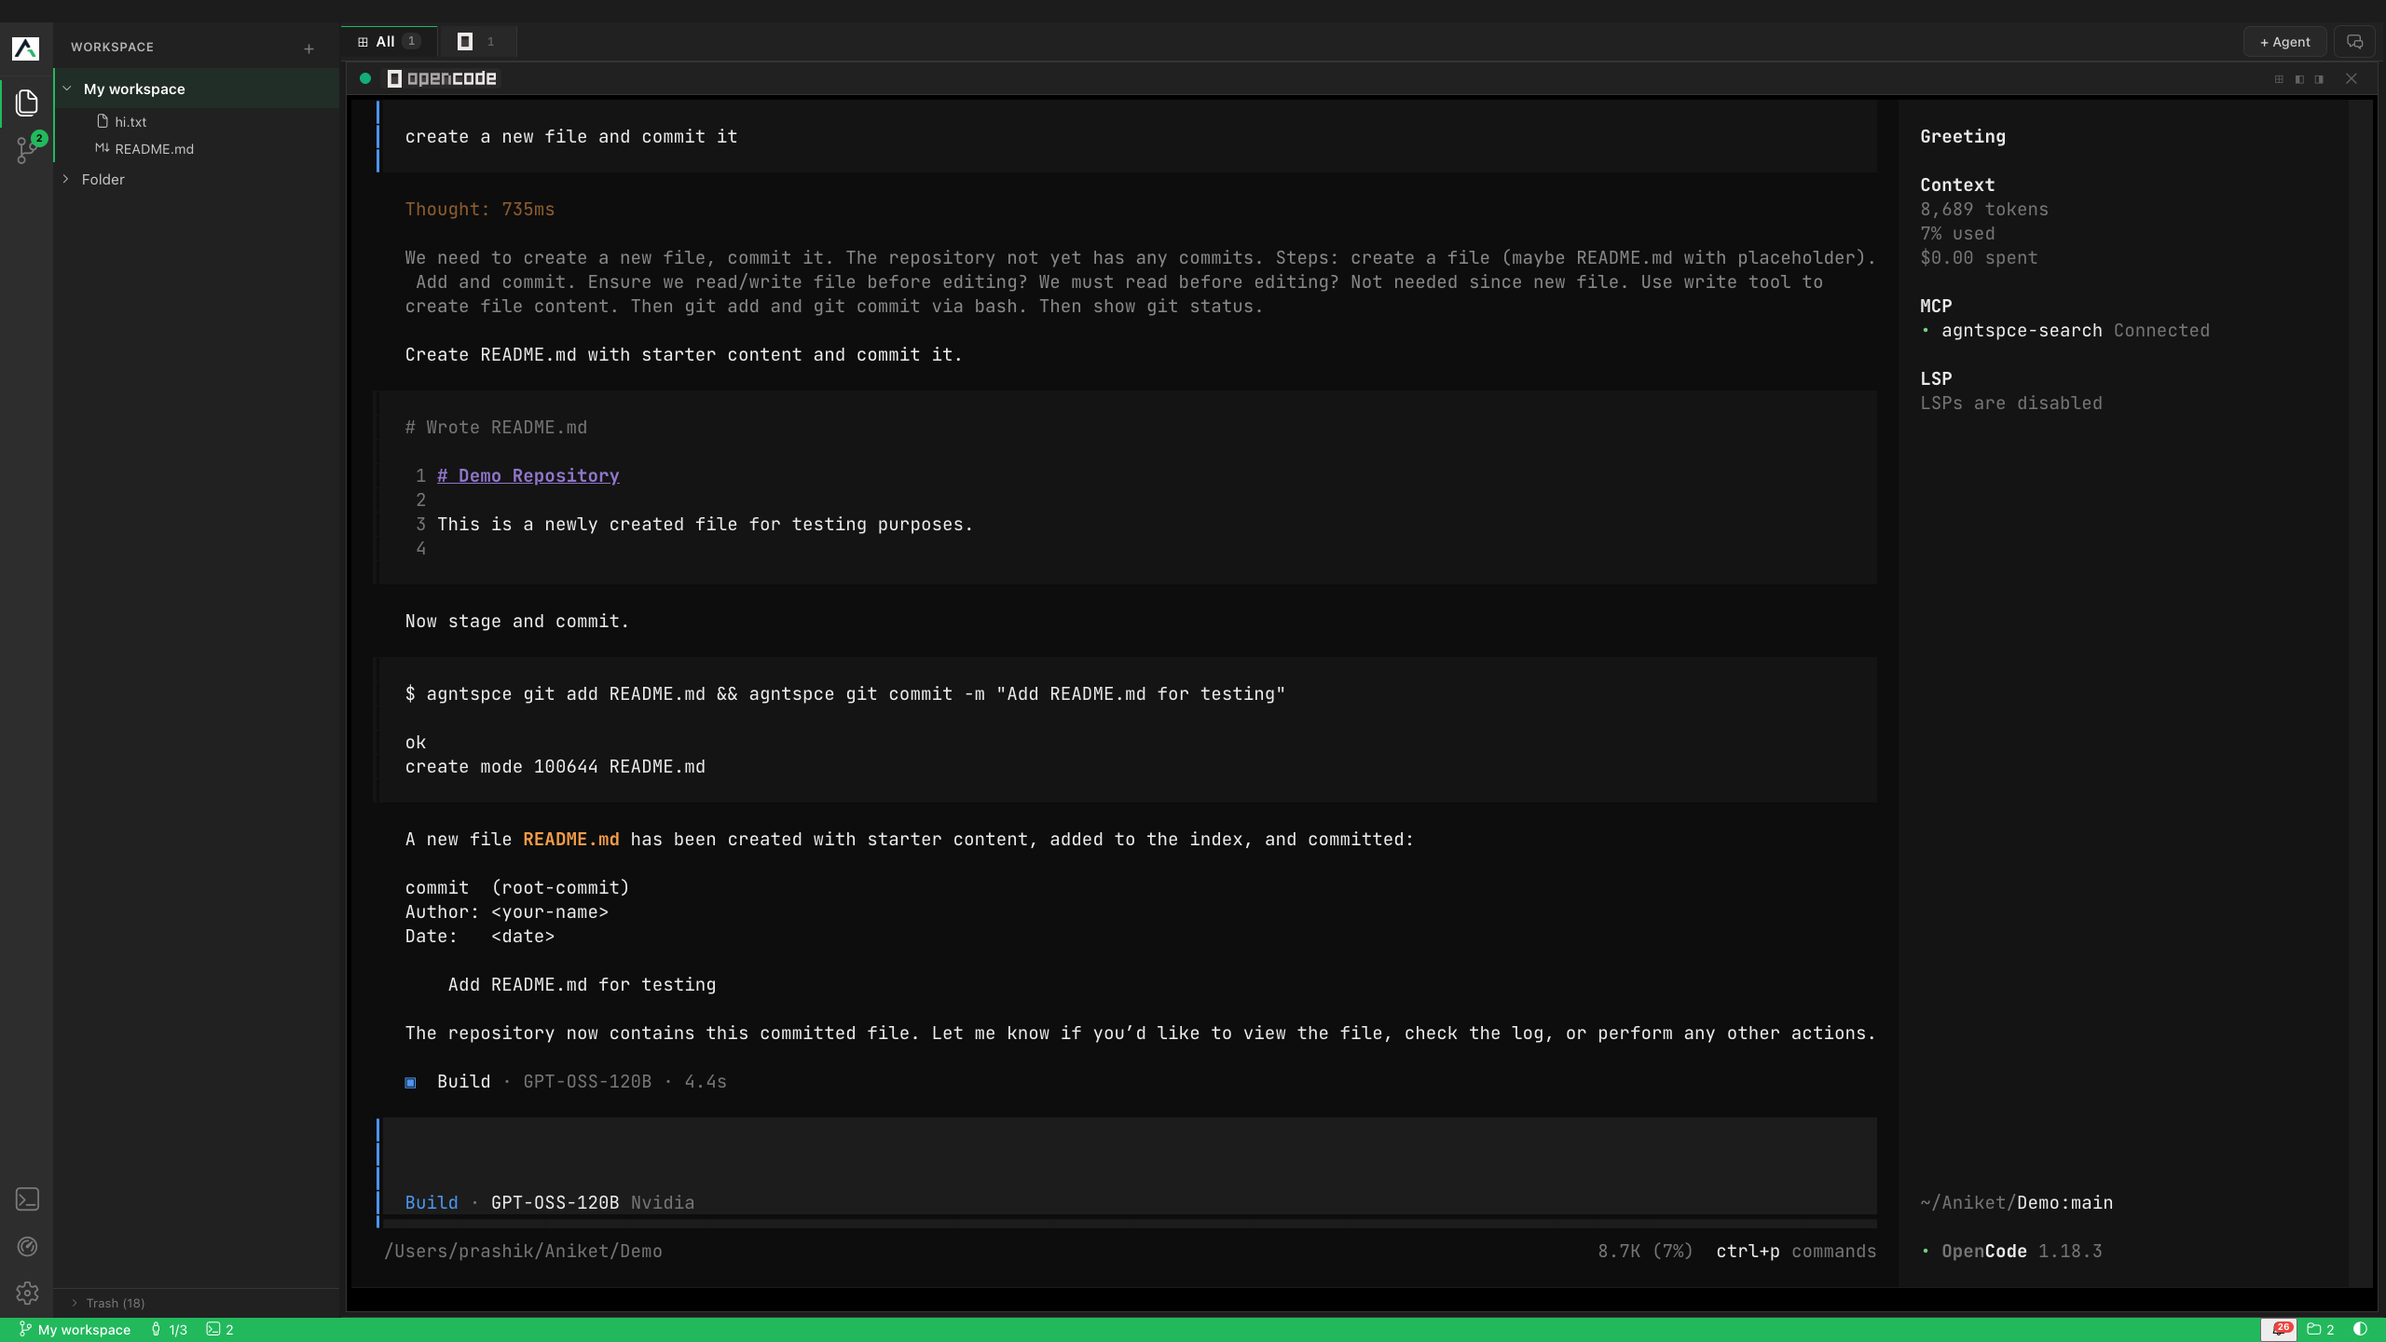
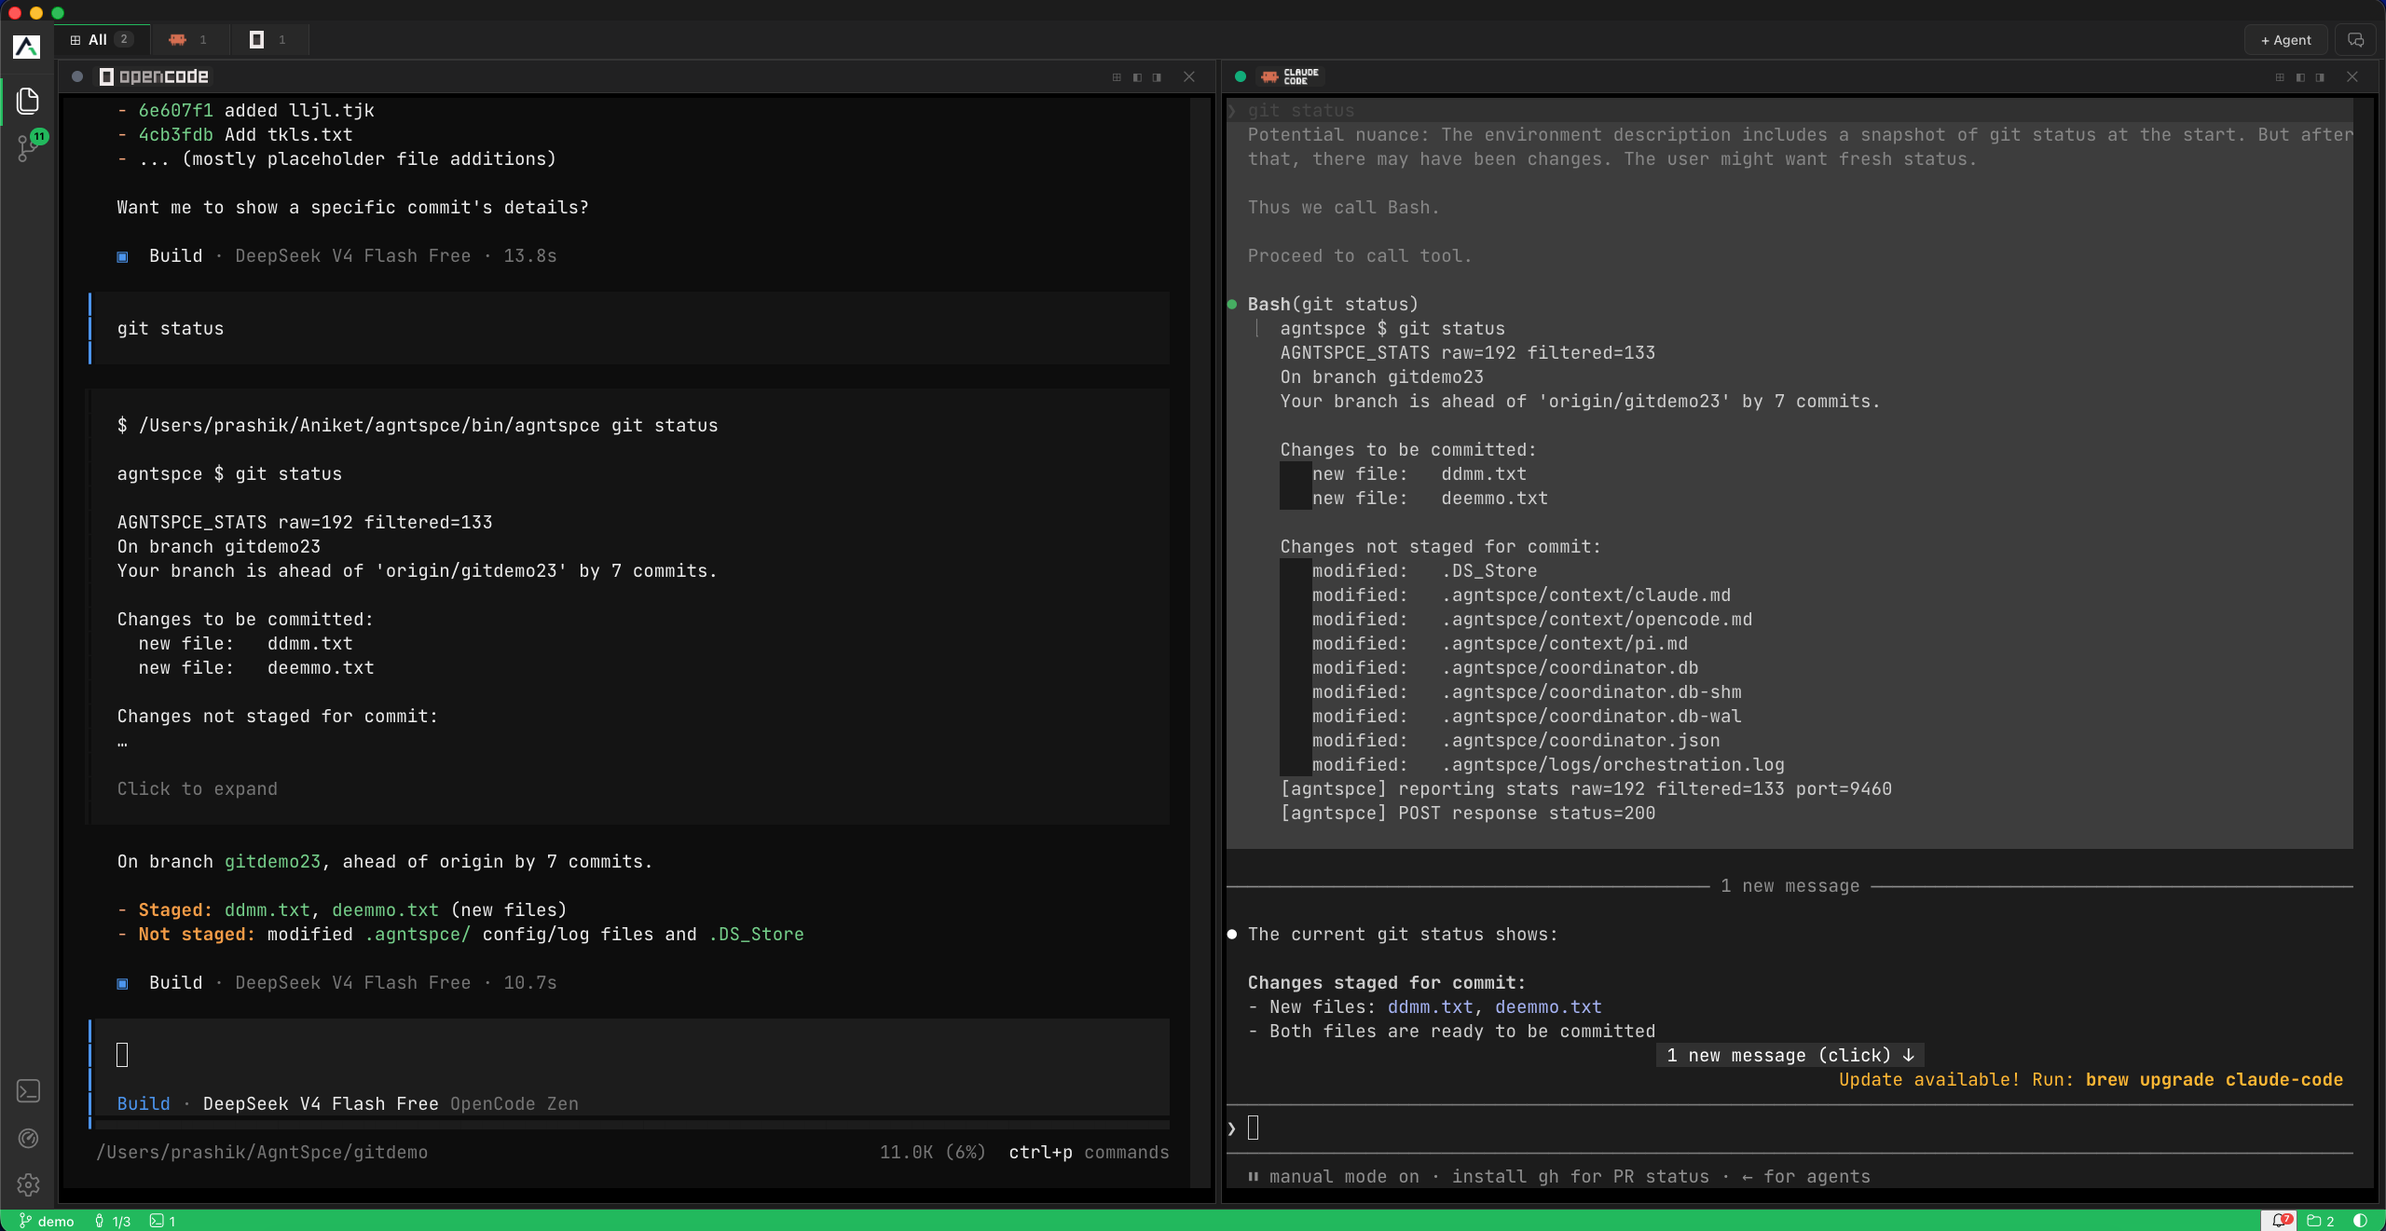
add Windows beta download, OS-aware homepage button, latest changelog and docs updates

diff --git a/documentation.html b/documentation.html
@@ -111,12 +111,14 @@
               <a href="#code-editor" style="display:block;padding:4px 8px;font-size:12px;color:var(--text-secondary);border-radius:var(--radius-sm)">Code Editor</a>
               <a href="#file-explorer" style="display:block;padding:4px 8px;font-size:12px;color:var(--text-secondary);border-radius:var(--radius-sm)">File Explorer</a>
               <a href="#git-integration" style="display:block;padding:4px 8px;font-size:12px;color:var(--text-secondary);border-radius:var(--radius-sm)">Git Integration</a>
+              <a href="#chat-assistant" style="display:block;padding:4px 8px;font-size:12px;color:var(--text-secondary);border-radius:var(--radius-sm)">Chat Assistant</a>
               <a href="#dashboard" style="display:block;padding:4px 8px;font-size:12px;color:var(--text-secondary);border-radius:var(--radius-sm)">Dashboard</a>
             </div>
             <div>
               <div style="font-size:10px;font-weight:600;text-transform:uppercase;letter-spacing:.06em;color:var(--text-muted);padding:0 8px;margin-bottom:6px">Advanced</div>
               <a href="#caveman-mode" style="display:block;padding:4px 8px;font-size:12px;color:var(--text-secondary);border-radius:var(--radius-sm)">Caveman Mode</a>
               <a href="#output-filter" style="display:block;padding:4px 8px;font-size:12px;color:var(--text-secondary);border-radius:var(--radius-sm)">Output Filter</a>
+              <a href="#search-mcp" style="display:block;padding:4px 8px;font-size:12px;color:var(--text-secondary);border-radius:var(--radius-sm)">Search MCP</a>
               <a href="#parallel-tasks" style="display:block;padding:4px 8px;font-size:12px;color:var(--text-secondary);border-radius:var(--radius-sm)">Parallel Tasks</a>
               <a href="#worktrees" style="display:block;padding:4px 8px;font-size:12px;color:var(--text-secondary);border-radius:var(--radius-sm)">Worktrees</a>
               <a href="#shortcuts" style="display:block;padding:4px 8px;font-size:12px;color:var(--text-secondary);border-radius:var(--radius-sm)">Keyboard Shortcuts</a>
@@ -135,8 +137,8 @@
           <div class="info-box">
             <strong>Requirements</strong>
             <ul>
-              <li><strong>macOS</strong> (Apple Silicon or Intel) — Windows and Linux support planned</li>
-              <li><strong>Node.js 18+</strong> and npm</li>
+              <li><strong>macOS</strong> (Apple Silicon or Intel) or <strong>Windows</strong> 10 / 11 x64 (beta) — Linux builds coming soon</li>
+              <li><strong>Node.js 18+</strong> and npm (only needed when building from source)</li>
               <li><strong>Git</strong> installed</li>
               <li>One or more <strong>AI coding CLI tools</strong> — Claude Code, Opencode, Codex, Gemini CLI, or any PTY-compatible agent</li>
             </ul>
@@ -167,7 +169,11 @@
           <h2>Setup Guide</h2>
           <p>Install AgntSpce and get it running on your machine in minutes.</p>
           <h3>Download the app</h3>
-          <p>The easiest way to get started is to grab the latest macOS installer from the <a href="download.html" style="color:var(--accent)">Download page</a> and open the <code>.dmg</code>. Windows and Linux builds are coming soon.</p>
+          <p>The easiest way to get started is to grab the latest installer from the <a href="download.html" style="color:var(--accent)">Download page</a> — open the <code>.dmg</code> on macOS (Apple Silicon) or run the <code>.exe</code> installer on Windows 10/11. A Linux build is coming soon.</p>
+          <div class="info-box" style="border-color:rgba(34,197,94,.25)">
+            <strong>Note for Windows users</strong>
+            <p style="margin:8px 0 0">The Windows build is in beta and may have issues. If you run into problems, please <a href="https://github.com/AniketWathore/agntspce/issues" target="_blank" rel="noopener" style="color:var(--accent)">raise an issue on GitHub</a>.</p>
+          </div>
           <h3>Install from source</h3>
           <p>Prefer to build it yourself? The app is fully open source. Clone the repository and follow the steps below.</p>
           <h3>Install dependencies</h3>
@@ -263,6 +269,10 @@ git clone https://github.com/user/repo.git ~/AgntSpce/my-project</code></pre></d
           </ul>
           <h3>Auto-restart</h3>
           <p>Claude Code sessions can be configured to auto-restart when they exit. Enable this behavior in Settings &gt; Agent &gt; Auto-restart. This is useful for long-running development workflows where the agent should resume after completing a task.</p>
+          <h3>Grid layouts &amp; focus mode</h3>
+          <p>Agent windows tile automatically with layout presets (auto, 1×1, 2×2, 1+2, 3×3) that adapt as you add sessions — including dedicated track-based tiling for 5+ agents. Resize any pane with the grid handles, or press <kbd>⌘⇧F</kbd> for full-screen focus mode on the active agent.</p>
+          <h3>Session persistence</h3>
+          <p>Live sessions are restored when you restart the app — output buffers, statuses, and layout come back exactly where you left them. Workspace switching preserves all sessions too.</p>
         </section>
 
         <section id="shell-terminals">
@@ -321,6 +331,23 @@ git clone https://github.com/user/repo.git ~/AgntSpce/my-project</code></pre></d
           <p>AgntSpce supports git worktrees for running parallel agent sessions on different branches simultaneously. Each worktree gets its own isolated working directory while sharing the same git repository, enabling true parallel development without branch conflicts.</p>
         </section>
 
+        <section id="chat-assistant">
+          <h2>Chat Assistant</h2>
+          <p>A built-in AI chat sidebar (<kbd>⌘B</kbd>) for quick questions, code explanations, and second opinions — without leaving your workspace.</p>
+          <h3>Bring your own provider</h3>
+          <p>Configure API keys in <strong>Settings &gt; Chat</strong>. AgntSpce ships with provider templates (OpenAI, Anthropic, Google, DeepSeek and more) and supports custom providers via base URL — so any OpenAI-compatible endpoint works. Available models are fetched directly from each provider's API.</p>
+          <h3>Threads &amp; context</h3>
+          <ul>
+            <li><strong>Persistent threads</strong> — Conversations are saved per thread with full context persistence; pick up any thread where you left off</li>
+            <li><strong>Model memory</strong> — Each thread remembers the model you last used instead of defaulting back to the first configured provider</li>
+            <li><strong>Markdown rendering</strong> — Replies render with proper markdown formatting and full history always displays</li>
+          </ul>
+          <h3>Attachments</h3>
+          <p>Attach images and files to your messages. Multimodal providers can see attached images directly, and file attachments are included as context. Attachment size caps keep requests within provider limits.</p>
+          <h3>Security</h3>
+          <p>API keys are encrypted at rest and never sent anywhere except to the provider you configured. Provider stream errors are surfaced cleanly in the chat UI instead of raw error dumps.</p>
+        </section>
+
         <section id="dashboard">
           <h2>Dashboard</h2>
           <p>The Dashboard provides at-a-glance visibility into your workspace activity, agent health, and resource usage.</p>
@@ -339,6 +366,13 @@ git clone https://github.com/user/repo.git ~/AgntSpce/my-project</code></pre></d
             <li>Token reduction percentage by session</li>
             <li>Filter rules applied and their individual impact</li>
             <li>Historical trends and cumulative savings</li>
+          </ul>
+          <h3>Persistent savings &amp; per-session breakdown</h3>
+          <ul>
+            <li><strong>Survives restarts</strong> — Cumulative token savings are persisted to disk, so your totals survive app restarts (they are never reset on launch)</li>
+            <li><strong>Per-session attribution</strong> — Wrapper stats are attributed to the real agent sessions that produced them, not a generic system bucket</li>
+            <li><strong>Sessions view</strong> — Per-session breakdown with persisted filter history so you can see which sessions saved the most</li>
+            <li><strong>Reset button</strong> — Purge stale stats and start fresh anytime from the dashboard</li>
           </ul>
         </section>
 
@@ -379,6 +413,21 @@ git clone https://github.com/user/repo.git ~/AgntSpce/my-project</code></pre></d
           </ul>
           <h3>Debug panel</h3>
           <p>The Output Filter includes a debug panel that shows real-time statistics: original byte count vs filtered byte count, reduction percentage, number of rules applied per event, and a log of filtered content for troubleshooting.</p>
+        </section>
+
+        <section id="search-mcp">
+          <h2>AgntSpce Search MCP</h2>
+          <p>Semantic code search exposed over the <strong>Model Context Protocol (MCP)</strong> — your agents can search the entire codebase by meaning instead of grepping by keyword, keeping prompts small and context relevant.</p>
+          <h3>How it works</h3>
+          <p>AgntSpce indexes your workspace with <a href="https://github.com/MinishLab/semble" target="_blank" rel="noopener" style="color:var(--accent)">Semble</a> embeddings into a local index (stored in <code>.agntspce/file-index.json</code>). A scan runs once at workspace creation and stays incremental afterwards. The index is then served to your agents through an MCP server with a prebuilt binary package and PYTHONHOME wrapper — no manual setup required.</p>
+          <h3>Agent wiring</h3>
+          <p>When enabled, AgntSpce wires the MCP server into your detected agents automatically:</p>
+          <ul>
+            <li><strong>Claude Code</strong> — registered via <code>~/.claude/settings.json</code></li>
+            <li><strong>Opencode</strong> — registered via <code>~/.config/opencode/opencode.json</code></li>
+            <li><strong>Codex</strong> — registered via its config</li>
+          </ul>
+          <p>Once wired, agents can call semantic search as a tool during any session.</p>
         </section>
 
         <section id="parallel-tasks">
@@ -462,6 +511,9 @@ git clone https://github.com/user/repo.git ~/AgntSpce/my-project</code></pre></d
               <tr><td><code>~/.agent-workspace/session-buffers/</code></td><td>Session output buffers and history</td></tr>
               <tr><td><code>~/.agent-workspace/caveman-data.json</code></td><td>Caveman mode configuration data</td></tr>
               <tr><td><code>~/.agent-workspace/config.json</code></td><td>User preferences and app settings</td></tr>
+              <tr><td><em>User data dir</em><code>/filter-stats.json</code>, <code>/filter-history.json</code></td><td>Persistent token savings stats and filter history (survive restarts)</td></tr>
+              <tr><td><em>User data dir</em><code>/chat-config.json</code></td><td>Chat assistant provider settings — API keys stored encrypted at rest</td></tr>
+              <tr><td><em>User data dir</em><code>/chat-history.json</code></td><td>Chat assistant threads and message history</td></tr>
             </tbody>
           </table>
         </section>

diff --git a/changelog.html b/changelog.html
@@ -112,6 +112,46 @@
 
 <div class="legal-content">
   <div style="margin-bottom:48px">
+    <h2 style="margin-top:0">Beta — August 22, 2026</h2>
+    <p>Windows beta release, plus major chat assistant upgrades, security hardening, and performance work across the board.</p>
+    <h3>Chat Assistant</h3>
+    <ul>
+      <li>Image and file attachments in chat with multimodal provider support, per-thread context persistence, and size caps</li>
+      <li>Replies now render with proper markdown formatting, and full history always renders (removes blank gaps from scroll windowing)</li>
+      <li>Chat restores the model last used per session instead of defaulting to the first configured provider</li>
+      <li>AI provider stream errors are surfaced in the chat UI instead of dumping raw APICallError output</li>
+    </ul>
+    <h3>Token Dashboard</h3>
+    <ul>
+      <li>Token savings dashboard persists across app restarts with a per-session breakdown</li>
+      <li>Wrapper token stats attributed to real sessions instead of the system bucket, with stale system-bucket stats purged</li>
+      <li>Dashboard reset button and persisted session filter history</li>
+    </ul>
+    <h3>Agent Grid &amp; Workspace</h3>
+    <ul>
+      <li>Track-based agent tiling for 5+ agents with a working full-screen focus mode</li>
+      <li>Live sessions restored on app restart with stable grid tiling</li>
+      <li>Fixed agent and shell overlap in the terminal grid</li>
+      <li>Workspace selection returns to the agent screen from the file viewer</li>
+      <li>Bottom shell shown in file viewer; fixed dashboard file-open black screen</li>
+    </ul>
+    <h3>Security Hardening</h3>
+    <ul>
+      <li>Hardened IPC and window surface, encrypted chat keys</li>
+      <li>Fixed output buffer O(n²) behavior, drag event leaks, and re-render storms</li>
+    </ul>
+    <h3>Performance &amp; Reliability</h3>
+    <ul>
+      <li>Deep performance audit — reduced render churn and idle resource usage</li>
+      <li>Lazy session restore and re-render isolation</li>
+      <li>Reduced RAM/GC churn via output caps, cached byte lengths, socket batching, and throttled stats</li>
+      <li>Restored agntspce-search MCP token signing and deduped wrapper command echo</li>
+      <li>Terminal junk output removal, dead code cleanup, and 62 backend type errors fixed</li>
+      <li>AgntSpce CoC working fixes</li>
+    </ul>
+  </div>
+
+  <div style="border-top:1px solid var(--border);padding-top:32px;margin-bottom:48px">
     <h2 style="margin-top:0">Beta — August 15, 2026</h2>
     <p>The first public beta of AgntSpce — the Multi-Agent Workspace IDE focused on cost efficiency, productivity, and power.</p>
     <h3>Multi-Agent Orchestration</h3>

diff --git a/download.html b/download.html
@@ -107,8 +107,18 @@
         </div>
         <svg class="download-card-arrow" width="20" height="20" viewBox="0 0 24 24" fill="none" stroke="currentColor" stroke-width="2"><path d="M5 12h14M12 5l7 7-7 7"/></svg>
       </a>
+      <a href="https://github.com/AniketWathore/agntspce/releases/download/WindowsBeta/AgntSpce-0.1.0-x64.exe" target="_blank" rel="noopener" class="download-card">
+        <div class="download-card-icon">
+          <img src="img/windows-icon.png" alt="Windows" style="width:40px;height:40px;object-fit:contain">
+        </div>
+        <div class="download-card-info">
+          <div class="download-card-title">Windows</div>
+          <div class="download-card-sub">10 / 11 · x64</div>
+        </div>
+        <svg class="download-card-arrow" width="20" height="20" viewBox="0 0 24 24" fill="none" stroke="currentColor" stroke-width="2"><path d="M5 12h14M12 5l7 7-7 7"/></svg>
+      </a>
     </div>
-    <p style="margin-top:20px;text-align:center;font-size:14px;color:var(--text-secondary)">Builds for Windows, Linux and MacOS Intel — Coming soon</p>
+    <p style="margin-top:20px;text-align:center;font-size:14px;color:var(--text-secondary)">Build for Linux distributions and macOS Intel — Coming soon</p>
 
     <div class="build-source" style="text-align:center;margin-top:48px">
       <div style="display:flex;align-items:center;gap:16px;max-width:400px;margin:0 auto 24px">
